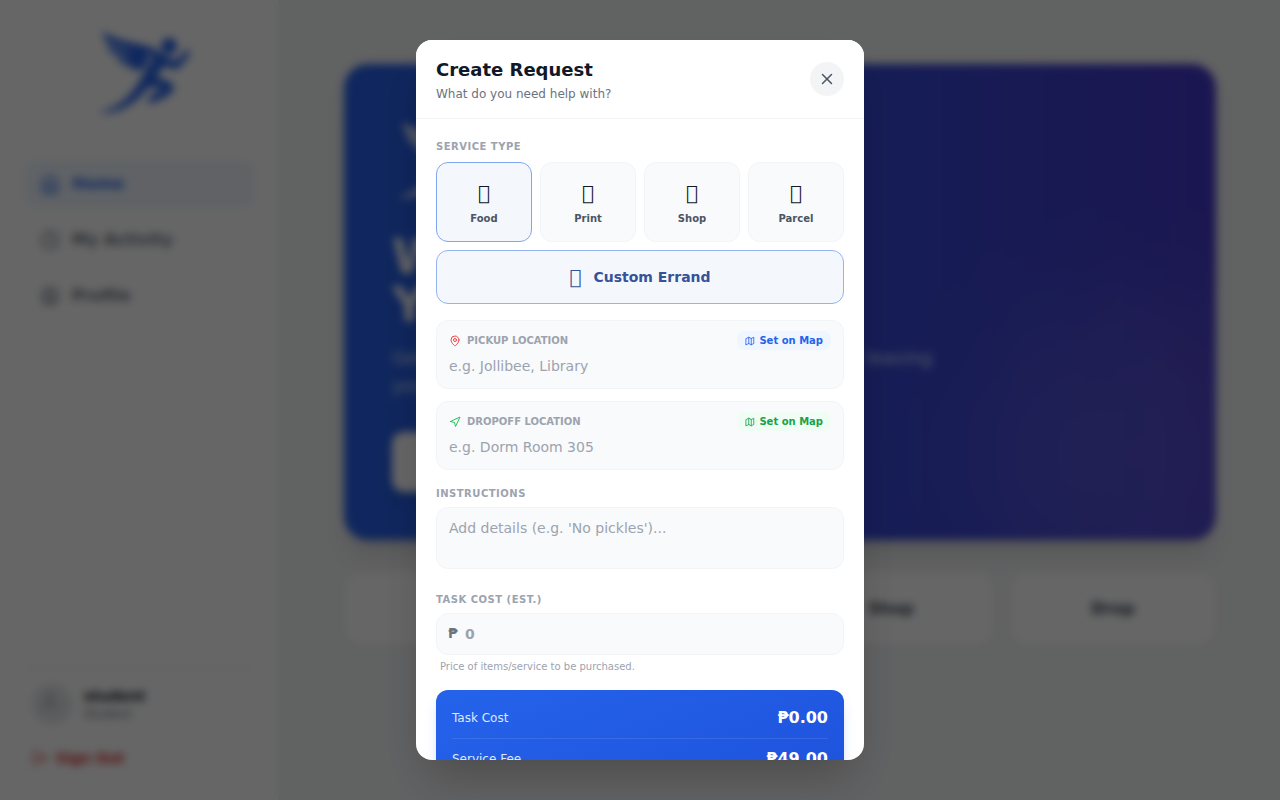
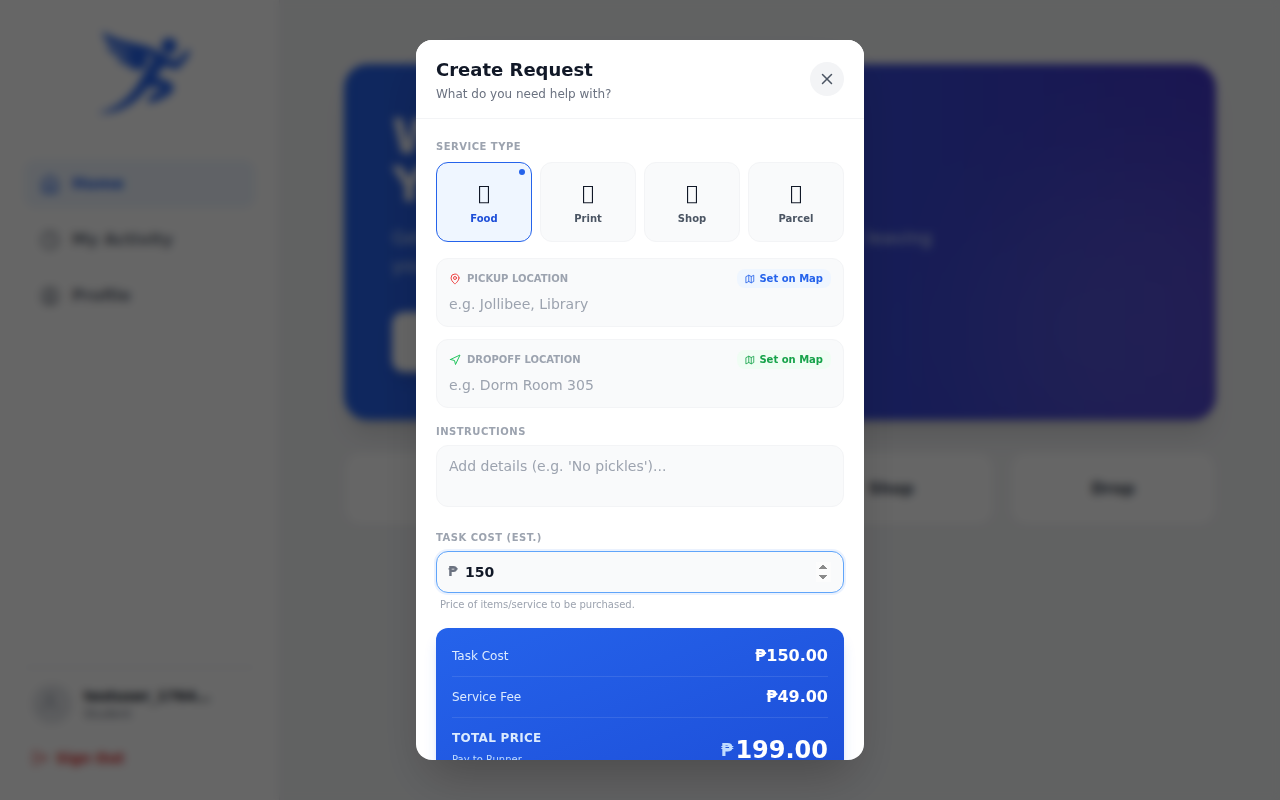
Revert "Add Custom Errand Option"

diff --git a/src/components/RunnerDashboard.tsx b/src/components/RunnerDashboard.tsx
@@ -77,11 +77,11 @@ const RunnerDashboard = ({ requests, userId, onViewProfile, onRateUser }: { requ
                 <div key={job.id} style={{animationDelay: `${i*50}ms`}} className="stagger-enter bg-white p-4 rounded-2xl shadow-sm border border-gray-100 hover:shadow-md transition-all group">
                    <div className="flex justify-between items-start mb-3">
                       <div className="flex items-center gap-3">
-                         <div className={`p-2.5 rounded-xl ${job.type === 'food' ? 'bg-orange-100 text-orange-600' : job.type === 'printing' ? 'bg-purple-100 text-purple-600' : job.type === 'custom' ? 'bg-pink-100 text-pink-600' : 'bg-blue-100 text-blue-600'}`}>
-                           {job.type === 'food' ? '🍔' : job.type === 'printing' ? '🖨' : job.type === 'custom' ? '✨' : '📦'}
+                         <div className={`p-2.5 rounded-xl ${job.type === 'food' ? 'bg-orange-100 text-orange-600' : job.type === 'printing' ? 'bg-purple-100 text-purple-600' : 'bg-blue-100 text-blue-600'}`}>
+                           {job.type === 'food' ? '🍔' : job.type === 'printing' ? '🖨' : '📦'}
                          </div>
                          <div>
-                            <h4 className="font-bold text-gray-900 capitalize">{job.type === 'custom' ? 'Custom Errand' : `${job.type} Delivery`}</h4>
+                            <h4 className="font-bold text-gray-900 capitalize">{job.type} Delivery</h4>
                             <p className="text-xs text-gray-500 mb-1">{new Date(job.created_at).toLocaleDateString()} • {new Date(job.created_at).toLocaleTimeString([], {hour: '2-digit', minute:'2-digit'})}</p>
                             <StudentInfo studentId={job.student_id} onClick={onViewProfile} />
                          </div>

diff --git a/src/components/Marketplace.tsx b/src/components/Marketplace.tsx
@@ -88,9 +88,9 @@ const Marketplace = ({ requests, onClaim, onUpdateStatus, userId, onRefresh, use
               <div key={req.id} style={{animationDelay: `${i*100}ms`}} className={`stagger-enter bg-white rounded-2xl shadow-sm border border-gray-100 hover-lift transition-all duration-200 p-5 group ${myActiveJob ? 'opacity-50 pointer-events-none grayscale' : ''}`}>
                 <div className="flex items-start justify-between mb-4">
                     <div className="flex items-center gap-3">
-                        <div className="bg-blue-50 p-3 rounded-xl text-2xl">{req.type === 'food' ? '🍔' : req.type === 'printing' ? '🖨' : req.type === 'custom' ? '✨' : '📦'}</div>
+                        <div className="bg-blue-50 p-3 rounded-xl text-2xl">{req.type === 'food' ? '🍔' : req.type === 'printing' ? '🖨' : '📦'}</div>
                         <div>
-                            <h3 className="font-bold text-lg text-gray-900 capitalize leading-none">{req.type === 'custom' ? 'Custom Errand' : req.type}</h3>
+                            <h3 className="font-bold text-lg text-gray-900 capitalize leading-none">{req.type}</h3>
                             <JobRequester studentId={req.student_id} onClick={onViewProfile} />
                             <span className="text-xs text-gray-400 block mt-0.5">{new Date(req.created_at).toLocaleTimeString([], {hour: '2-digit', minute:'2-digit'})}</span>
                         </div>

diff --git a/src/components/RequestForm.tsx b/src/components/RequestForm.tsx
@@ -109,15 +109,6 @@ const RequestForm = ({ onSubmit, onCancel }: RequestFormProps) => {
                   </button>
                 ))}
               </div>
-
-              <button
-                type="button"
-                onClick={() => setFormData({...formData, type: 'custom'})}
-                className={`mt-2 w-full p-3 rounded-xl border flex items-center justify-center gap-3 transition-all btn-press ${formData.type === 'custom' ? 'border-blue-600 bg-blue-50 text-blue-700' : 'border-gray-100 bg-gray-50 text-gray-600 hover:border-gray-300'}`}
-              >
-                <span className="text-xl">✨</span>
-                <span className="font-bold text-sm">Custom Errand</span>
-              </button>
             </div>
 
             <div className="space-y-3">
